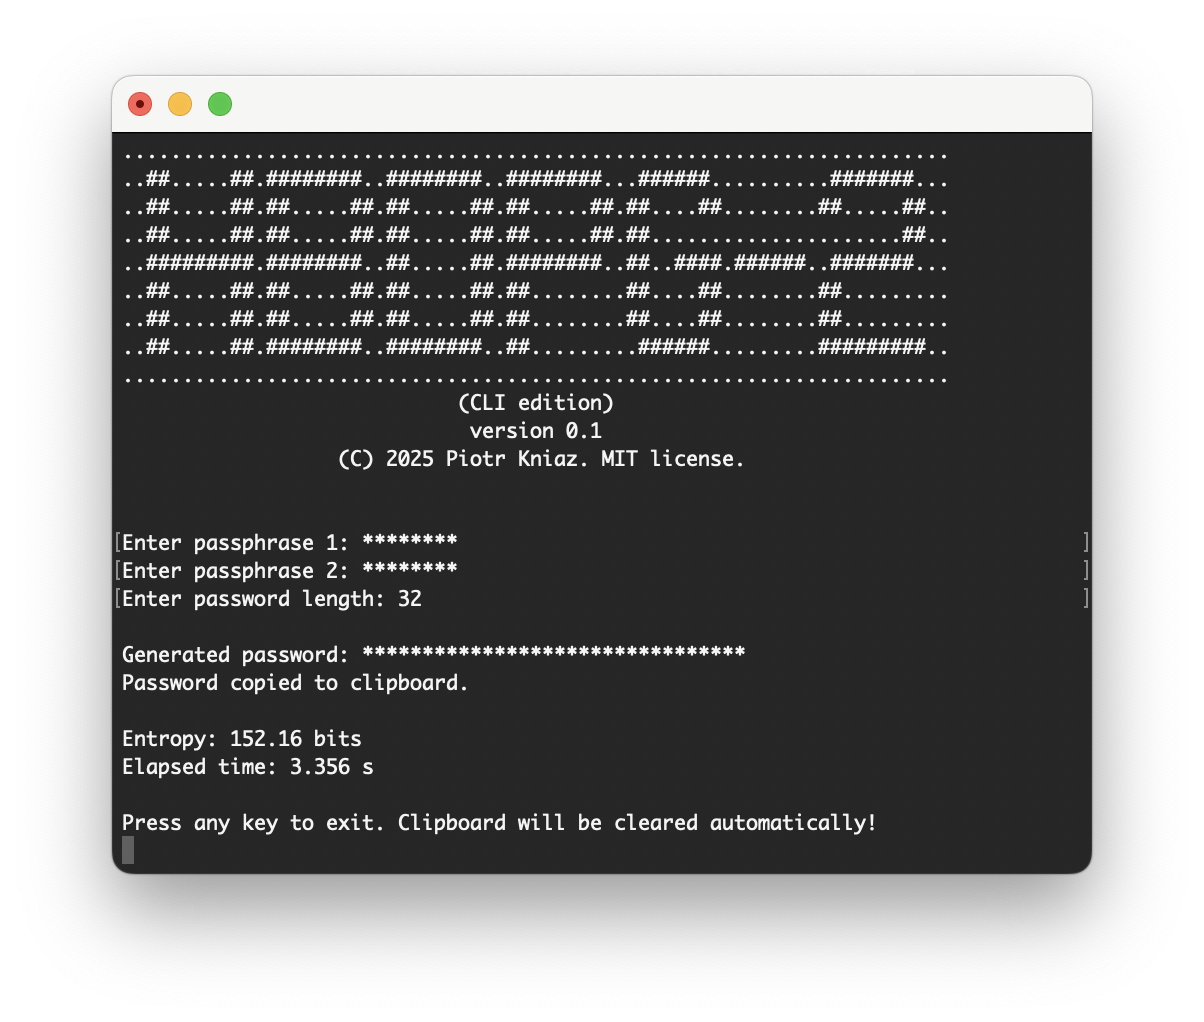
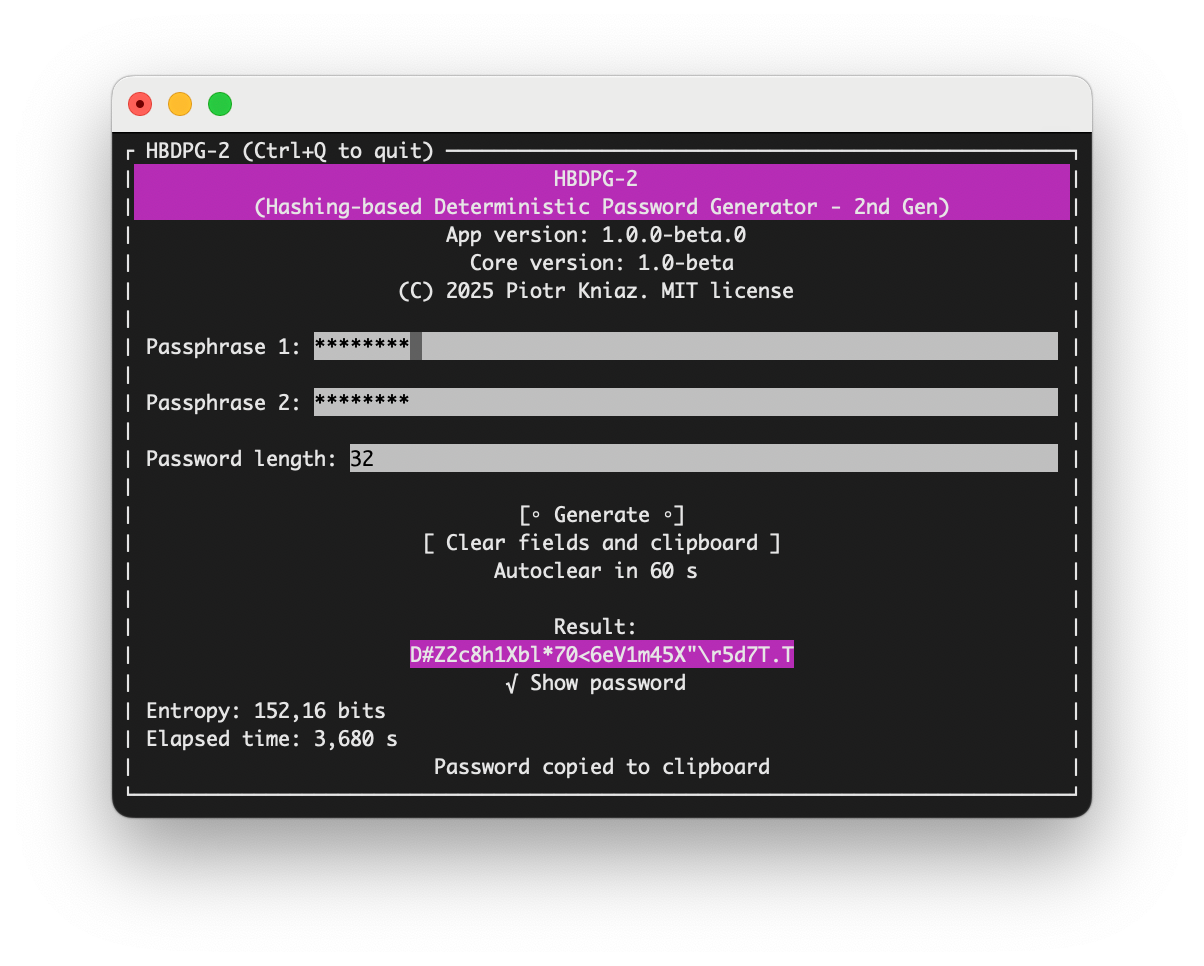
Update screenshot, license mentions

Changed region(s): [[0.0922, 0.0621, 0.9219, 0.7143], [0.0922, 0.7143, 0.9219, 0.8696]]

diff --git a/HBDPG-2/UI.cs b/HBDPG-2/UI.cs
@@ -1,3 +1,11 @@
+/*  Copyright (C) 2025 Piotr Kniaz
+
+    This file is part of HBDPG-2.
+    Repository: https://github.com/HBDPG-2/hbdpg-2-tui
+
+    Licensed under the MIT License. See LICENSE file in the project root for details.
+*/
+
 using Terminal.Gui;
 
 // namespace
@@ -28,14 +36,18 @@ public partial class MainWindow : Window
 
     private void InitializeUI()
     {
+        Add(_appName, _appDescription, _passphrase1Label, _passphrase1Input, _passphrase2Label, _passphrase2Input,
+            _passwordLengthLabel, _passwordLengthInput, _generateButton, _generateLabel, _clearButton, _autoClearLabel,
+            _resultLabel, _resultField, _showPasswordCheckbox, _entropyLabel, _elapsedTimeLabel, _passwordCopiedLabel);
+        
         if (Clipboard.IsSupported)
         {
             _clearButton.Text = "Clear fields and clipboard";
         }
-
-        Add(_appName, _appDescription, _passphrase1Label, _passphrase1Input, _passphrase2Label, _passphrase2Input,
-            _passwordLengthLabel, _passwordLengthInput, _generateButton, _generateLabel, _clearButton, _autoClearLabel,
-            _resultLabel, _resultField, _showPasswordCheckbox, _entropyLabel, _elapsedTimeLabel, _passwordCopiedLabel);
+        else
+        {
+            MessageBox.ErrorQuery("Clipboard is not supported", "You may encounter problems when trying to copy!", "OK");
+        }
     }
 
     private void SetupEvents()

diff --git a/HBDPG-2/UIElements.cs b/HBDPG-2/UIElements.cs
@@ -1,3 +1,11 @@
+/*  Copyright (C) 2025 Piotr Kniaz
+
+    This file is part of HBDPG-2.
+    Repository: https://github.com/HBDPG-2/hbdpg-2-tui
+
+    Licensed under the MIT License. See LICENSE file in the project root for details.
+*/
+
 using Terminal.Gui;
 
 // namespace
@@ -17,7 +25,7 @@ public partial class MainWindow : Window
 
     private static Label _appDescription = new()
     {
-        Text = "App version: 0.1.0-dev\nCore version: 1.0-beta" +
+        Text = "App version: 1.0.0-beta.0\nCore version: 1.0-beta" +
                "\n(C) 2025 Piotr Kniaz. MIT license",
         TextAlignment = TextAlignment.Centered,
         Width = Dim.Fill(),

diff --git a/HBDPG-2/Program.cs b/HBDPG-2/Program.cs
@@ -1,7 +1,7 @@
 /*  Copyright (C) 2025 Piotr Kniaz
 
     This file is part of HBDPG-2.
-    Repository: https://github.com/HBDPG-2/hbdpg-2-cli
+    Repository: https://github.com/HBDPG-2/hbdpg-2-tui
 
     Licensed under the MIT License. See LICENSE file in the project root for details.
 */

diff --git a/HBDPG-2/Core.cs b/HBDPG-2/Core.cs
@@ -1,7 +1,7 @@
 /*  Copyright (C) 2025 Piotr Kniaz
 
     This file is part of HBDPG-2.
-    Repository: https://github.com/HBDPG-2/hbdpg-2-cli
+    Repository: https://github.com/HBDPG-2/hbdpg-2-tui
 
     Licensed under the MIT License. See LICENSE file in the project root for details.
 */

diff --git a/HBDPG-2/Result.cs b/HBDPG-2/Result.cs
@@ -1,7 +1,7 @@
 /*  Copyright (C) 2025 Piotr Kniaz
 
     This file is part of HBDPG-2.
-    Repository: https://github.com/HBDPG-2/hbdpg-2-cli
+    Repository: https://github.com/HBDPG-2/hbdpg-2-tui
 
     Licensed under the MIT License. See LICENSE file in the project root for details.
 */

diff --git a/README.md b/README.md
@@ -52,8 +52,8 @@ If you have discovered a vulnerability, please read the [Security Policy](https:
 **Used Resources:**
 
 - [Konscious.Security.Cryptography.Argon2](https://github.com/kmaragon/Konscious.Security.Cryptography) by Keef Aragon (v1.3.1)
-<!-- - [TextCopy](https://github.com/CopyText/TextCopy) by Simon Cropp (v6.2.1) -->
 - [Terminal.Gui](https://github.com/gui-cs/Terminal.Gui) by gui-cs (v1.18.1)
+<!-- - [TextCopy](https://github.com/CopyText/TextCopy) by Simon Cropp (v6.2.1) -->
 
 ---
 
